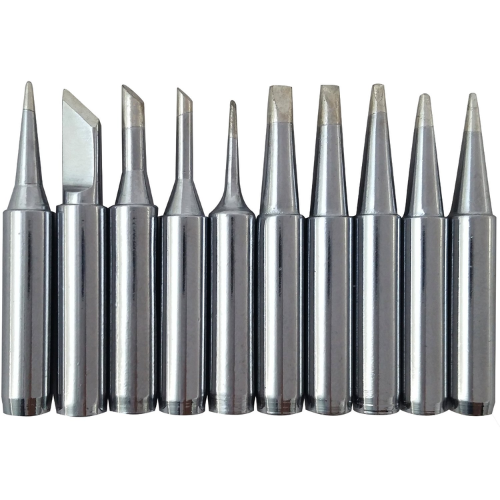
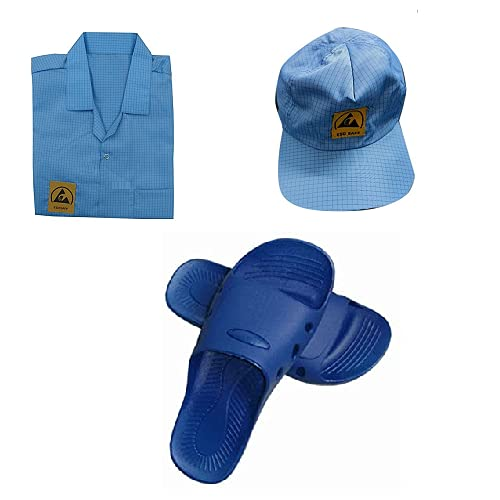
add t shirts and cusumables and removed existing products and add socila media links etc ..

diff --git a/src/index.css b/src/index.css
@@ -212,6 +212,62 @@ input, textarea, select {
   background: linear-gradient(135deg, rgba(188,159,77,0.15) 0%, transparent 60%);
 }
 
+/* Product-specific backgrounds */
+.page-header[data-product="packaging"] {
+  background-image: url('/images/backgrounds/packaging-bg.jpg');
+  background-size: cover;
+  background-position: center;
+  background-attachment: fixed;
+}
+
+.page-header[data-product="packaging"]::before {
+  background: linear-gradient(135deg, rgba(11,13,23,0.7) 0%, rgba(11,13,23,0.5) 60%);
+}
+
+.page-header[data-product="gloves"] {
+  background-image: url('/images/backgrounds/gloves-bg.jpg');
+  background-size: cover;
+  background-position: center;
+  background-attachment: fixed;
+}
+
+.page-header[data-product="gloves"]::before {
+  background: linear-gradient(135deg, rgba(11,13,23,0.7) 0%, rgba(11,13,23,0.5) 60%);
+}
+
+.page-header[data-product="safety"] {
+  background-image: url('/images/backgrounds/safety-bg.jpg');
+  background-size: cover;
+  background-position: center;
+  background-attachment: fixed;
+}
+
+.page-header[data-product="safety"]::before {
+  background: linear-gradient(135deg, rgba(11,13,23,0.7) 0%, rgba(11,13,23,0.5) 60%);
+}
+
+.page-header[data-product="esd"] {
+  background-image: url('/images/backgrounds/esd-bg.jpg');
+  background-size: cover;
+  background-position: center;
+  background-attachment: fixed;
+}
+
+.page-header[data-product="esd"]::before {
+  background: linear-gradient(135deg, rgba(11,13,23,0.7) 0%, rgba(11,13,23,0.5) 60%);
+}
+
+.page-header[data-product="pallets"] {
+  background-image: url('/images/backgrounds/pallets-bg.jpg');
+  background-size: cover;
+  background-position: center;
+  background-attachment: fixed;
+}
+
+.page-header[data-product="pallets"]::before {
+  background: linear-gradient(135deg, rgba(11,13,23,0.7) 0%, rgba(11,13,23,0.5) 60%);
+}
+
 .page-header .container {
   position: relative;
   z-index: 1;

diff --git a/src/pages/Products.jsx b/src/pages/Products.jsx
@@ -18,36 +18,16 @@ const packagingProducts = [
   { name: 'STEEL STRAP', desc: 'Industrial strapping', img: '/images/products/steel_strap.webp' },
   { name: 'PP & PET STRAP CLIP', desc: 'Strapping accessories', img: '/images/products/strap_clip.webp' },
   { name: 'POLYESTER COMPOSITE STRAP', desc: 'Flexible strapping', img: '/images/products/polyester_composite_strap.webp' },
-  { name: 'POLYESTER COMPOSITE STRAP BUCKLE', desc: 'Fastening hardware', img: '/images/products/composite_strap_buckle.webp' },
-  { name: 'PAPER DUNNAGE AIR BAG', desc: 'Cargo protection', img: '/images/products/paper_dunnage_bag.webp' },
-  { name: 'PP DUNNAGE AIR BAG', desc: 'Cargo protection', img: '/images/products/pp_dunnage_bag.webp' },
-  { name: 'CONTAINER RATCHET BELT', desc: 'Load securing', img: '/images/products/container_ratchet_belt.webp' },
-  { name: 'CARGO LASHING BELT', desc: 'Heavy load securing', img: '/images/products/cargo_lashing_belt.webp' },
-  { name: 'RATCHET LASHING BELT', desc: 'General securing', img: '/images/products/ratchet_lashing_belt.webp' },
-  { name: 'WOVEN STRAP', desc: 'High-load strap', img: '/images/products/woven_strap.webp' },
-  { name: 'POLYESTER LASHING STRAP', desc: 'Soft lashing', img: '/images/products/polyester_lashing_strap.webp' },
-  { name: 'HEAVY DUTY BUCKLE', desc: 'High-strength buckle', img: '/images/products/heavy_duty_buckle.webp' },
   { name: 'CONTAINER DESICCANT', desc: 'Moisture control', img: '/images/products/container_desiccant.webp' },
   { name: 'SILICA GEL', desc: 'Moisture control', img: '/images/products/silica_gel.webp' },
-  { name: 'PP STRAP TENSIONER SET', desc: 'Manual tool', img: '/images/products/pp_strap_tensioner.webp' },
-  { name: 'CORD STRAP TENSIONER', desc: 'Manual tool', img: '/images/products/cord_strap_tensioner.webp' },
-  { name: 'STEEL STRAP TENSIONER', desc: 'Industrial tool', img: '/images/products/steel_strap_tensioner.webp' },
-  { name: 'BATTERY OPERATED TOOL', desc: 'Power tool', img: '/images/products/battery_operated_tool.webp' },
-  { name: 'TAPE DISPENSER', desc: 'Handheld tool', img: '/images/products/tape_dispenser.webp' },
-  { name: 'STRETCH FILM DISPENSER', desc: 'Handheld tool', img: '/images/products/stretch_film_dispenser.webp' },
-  { name: 'PET STRAP DISPENSER', desc: 'Mobile cart', img: '/images/products/pet_strap_dispenser.webp' },
-  { name: 'AIR INFULATOR DUNNAGE AIR BAG', desc: 'Pneumatic tool', img: '/images/products/dunnage_inflator.webp' },
   { name: 'MASKING TAPE', desc: 'Painter\'s/Paper tape', img: '/images/products/masking_tape.jpg' },
-  { name: 'PLASTIC PALLET', desc: 'Material handling', img: '/images/products/plastic_pallet.jpg' },
-  { name: 'HEAT TREATED PALLET', desc: 'Logistical base', img: '/images/products/heat_treated_pallet.jpg' },
-  { name: 'WAREHOUSE STEEL PALLET', desc: 'Heavy-duty handling', img: '/images/products/steel_pallet.jpg' },
 ]
 
 export default function Products() {
   return (
     <main className="products-page">
       <SEO title="Products" url="/products" />
-      <div className="page-header">
+      <div className="page-header" data-product="packaging">
         <div className="container">
           <h1>Packaging</h1>
           <div className="breadcrumb">

diff --git a/src/components/Navbar.jsx b/src/components/Navbar.jsx
@@ -1,7 +1,7 @@
 import { useState, useEffect, useRef } from 'react'
 import { Link, NavLink } from 'react-router-dom'
 import { FiMenu, FiX, FiChevronDown, FiMail, FiPhone } from 'react-icons/fi'
-import { FaFacebook, FaLinkedin, FaTwitter, FaYoutube } from 'react-icons/fa'
+import { FaFacebook, FaLinkedin, FaTwitter, FaYoutube, FaInstagram } from 'react-icons/fa'
 import './Navbar.css'
 
 const products = [
@@ -9,9 +9,8 @@ const products = [
   { label: 'Industrial Gloves', path: '/industrial-gloves' },
   { label: 'Safety Disposables', path: '/safety-disposables' },
   { label: 'ESD Products', path: '/esd' },
-  { label: 'Cleanroom Cotton Swabs', path: '/cotton-swab' },
-  { label: 'Biomass Briquettes', path: '/biomass-briquettes' },
-  { label: 'Epoxy & ESD Flooring', path: '/flooring' },
+  { label: 'T-Shirts', path: '/t-shirts' },
+  { label: 'Consumables', path: '/consumables' },
   { label: 'Pallets', path: '/pallet' },
 ]
 
@@ -48,18 +47,18 @@ export default function Navbar() {
       <div className="topbar">
         <div className="container topbar__inner">
           <div className="topbar__contact">
-            <a href="mailto:[email redacted]" className="topbar__link">
-              <FiMail /> [email redacted]
+            <a href="mailto:[email redacted]" className="topbar__link">
+              <FiMail /> [email redacted]
             </a>
             <a href="tel:[phone redacted]" className="topbar__link">
               <FiPhone /> [phone redacted]
             </a>
           </div>
           <div className="topbar__social">
-            <a href="https://facebook.com" target="_blank" rel="noopener noreferrer" aria-label="Facebook"><FaFacebook /></a>
-            <a href="https://linkedin.com" target="_blank" rel="noopener noreferrer" aria-label="LinkedIn"><FaLinkedin /></a>
-            <a href="https://twitter.com" target="_blank" rel="noopener noreferrer" aria-label="Twitter"><FaTwitter /></a>
-            <a href="https://youtube.com" target="_blank" rel="noopener noreferrer" aria-label="YouTube"><FaYoutube /></a>
+            <a href="https://www.instagram.com/rudra_kshaenterprises?utm_source=qr&igsh=MTFnOGp6MTVib2ZubQ==" target="_blank" rel="noopener noreferrer" aria-label="Instagram"><FaInstagram /></a>
+            <a href="https://x.com/Rudraksha91" target="_blank" rel="noopener noreferrer" aria-label="X"><FaTwitter /></a>
+            <a href="https://www.linkedin.com/in/rudraksha-enterprises-33a395418?utm_source=share_via&utm_content=profile&utm_medium=member_android" target="_blank" rel="noopener noreferrer" aria-label="LinkedIn"><FaLinkedin /></a>
+            <a href="https://youtube.com/@rudrakshaenterprises-d4y?si=-zmxFlS9ddrarcbQ" target="_blank" rel="noopener noreferrer" aria-label="YouTube"><FaYoutube /></a>
           </div>
         </div>
       </div>

diff --git a/src/components/Footer.jsx b/src/components/Footer.jsx
@@ -1,5 +1,5 @@
 import { Link } from 'react-router-dom'
-import { FaFacebook, FaLinkedin, FaTwitter, FaYoutube, FaWhatsapp } from 'react-icons/fa'
+import { FaFacebook, FaLinkedin, FaTwitter, FaYoutube, FaWhatsapp, FaInstagram } from 'react-icons/fa'
 import { FiMail, FiPhone, FiMapPin } from 'react-icons/fi'
 import './Footer.css'
 
@@ -18,13 +18,13 @@ export default function Footer() {
               />
             </Link>
             <p className="footer__about">
-              Rudraksha Enterprises has been surpassing its clients expectations since its inception. Undue attention to quality control and management has made us a leading manufacturer, supplier and trader of Disposable Safety Items and Packaging Materials. <em>Reliable. Scalable. Ready.</em>
+              Rudraksha Enterprises is a leading manufacturer, supplier and trader of Disposable Safety Items and Packaging Materials. Undue attention to quality control and management has made us trusted by businesses across India and internationally. <em>Reliable. Scalable. Ready.</em>
             </p>
             <div className="footer__social">
-              <a href="https://facebook.com" target="_blank" rel="noopener noreferrer" aria-label="Facebook"><FaFacebook /></a>
-              <a href="https://linkedin.com" target="_blank" rel="noopener noreferrer" aria-label="LinkedIn"><FaLinkedin /></a>
-              <a href="https://twitter.com" target="_blank" rel="noopener noreferrer" aria-label="Twitter"><FaTwitter /></a>
-              <a href="https://youtube.com" target="_blank" rel="noopener noreferrer" aria-label="YouTube"><FaYoutube /></a>
+              <a href="https://www.instagram.com/rudra_kshaenterprises?utm_source=qr&igsh=MTFnOGp6MTVib2ZubQ==" target="_blank" rel="noopener noreferrer" aria-label="Instagram"><FaInstagram /></a>
+              <a href="https://x.com/Rudraksha91" target="_blank" rel="noopener noreferrer" aria-label="X"><FaTwitter /></a>
+              <a href="https://www.linkedin.com/in/rudraksha-enterprises-33a395418?utm_source=share_via&utm_content=profile&utm_medium=member_android" target="_blank" rel="noopener noreferrer" aria-label="LinkedIn"><FaLinkedin /></a>
+              <a href="https://youtube.com/@rudrakshaenterprises-d4y?si=-zmxFlS9ddrarcbQ" target="_blank" rel="noopener noreferrer" aria-label="YouTube"><FaYoutube /></a>
               <a href="https://wa.me/[phone redacted]" target="_blank" rel="noopener noreferrer" aria-label="WhatsApp"><FaWhatsapp /></a>
             </div>
           </div>
@@ -51,7 +51,7 @@ export default function Footer() {
             <ul className="footer__contact-list">
               <li>
                 <FiMail />
-                <a href="mailto:[email redacted]">[email redacted]</a>
+                <a href="mailto:[email redacted]">[email redacted]</a>
               </li>
               <li>
                 <FiPhone />
@@ -70,11 +70,11 @@ export default function Footer() {
             <div className="footer__info-card">
               <div className="footer__info-item">
                 <span className="footer__info-label">Nature of Business</span>
-                <span className="footer__info-value">Exporter and Manufacturer</span>
+                <span className="footer__info-value">Supplier and Manufacturer</span>
               </div>
               <div className="footer__info-item">
                 <span className="footer__info-label">Legal Status</span>
-                <span className="footer__info-value">Partnership Firm</span>
+                <span className="footer__info-value">Proprietor</span>
               </div>
               <div className="footer__info-item">
                 <span className="footer__info-label">Tagline</span>

diff --git a/src/pages/Home.jsx b/src/pages/Home.jsx
@@ -98,7 +98,7 @@ const whyUs = [
   {
     icon: <FaBalanceScale />,
     title: 'Dedicated Customer Support',
-    desc: 'Our customer support team is here to assist you at every step. Whether you have questions about our products or need assistance with an order.',
+    desc: 'Our customer support team is here to assist you at every step. GST Number: 36EKBPR5926M1ZJ',
   },
 ]
 
@@ -292,14 +292,14 @@ export default function Home() {
             <div className="trust-card__icon"><FaBoxOpen /></div>
             <div>
               <h3>Nature of Business</h3>
-              <p>Exporter and Manufacturer</p>
+              <p>Supplier and Manufacturer</p>
             </div>
           </div>
           <div className="trust-card">
             <div className="trust-card__icon"><FaBalanceScale /></div>
             <div>
               <h3>Legal Status of Firm</h3>
-              <p>Partnership Firm</p>
+              <p>Proprietor</p>
             </div>
           </div>
         </div>
@@ -313,7 +313,7 @@ export default function Home() {
               <span className="section-label">ABOUT COMPANY</span>
               <h2 className="section-title">RUDRAKSHA ENTERPRISES</h2>
               <p className="section-subtitle">
-                Rudraksha Enterprises has been surpassing its clients expectations since its inception in 2018. Undue attention to quality control and management has made us leading manufacturer, supplier and trader of Disposable Safety Items and Packaging Materials.
+                Rudraksha Enterprises is a leading manufacturer, supplier and trader of Disposable Safety Items and Packaging Materials. Undue attention to quality control and management has made us trusted by businesses across India and internationally.
               </p>
               <br />
               <p style={{color: 'var(--gray-500)', fontSize: '15px', lineHeight: '1.7'}}>
@@ -326,10 +326,6 @@ export default function Home() {
             </div>
             <div className="home-about__img">
               <img src="/images/about_company.png" alt="Rudraksha Enterprises - About Us" />
-              <div className="home-about__badge">
-                <span className="home-about__badge-num">6+</span>
-                <span>Years of Excellence</span>
-              </div>
             </div>
           </div>
         </div>

diff --git a/src/App.jsx b/src/App.jsx
@@ -10,9 +10,8 @@ import Products from './pages/Products'
 import IndustrialGloves from './pages/IndustrialGloves'
 import SafetyDisposables from './pages/SafetyDisposables'
 import ESDProducts from './pages/ESDProducts'
-import CottonSwabs from './pages/CottonSwabs'
-import BiomassBriquettes from './pages/BiomassBriquettes'
-import IndustrialFlooring from './pages/IndustrialFlooring'
+import TShirts from './pages/TShirts'
+import Consumables from './pages/Consumables'
 import Pallets from './pages/Pallets'
 import Contact from './pages/Contact'
 import Terms from './pages/Terms'
@@ -36,9 +35,8 @@ function App() {
         <Route path="/industrial-gloves" element={<IndustrialGloves />} />
         <Route path="/safety-disposables" element={<SafetyDisposables />} />
         <Route path="/esd" element={<ESDProducts />} />
-        <Route path="/cotton-swab" element={<CottonSwabs />} />
-        <Route path="/biomass-briquettes" element={<BiomassBriquettes />} />
-        <Route path="/flooring" element={<IndustrialFlooring />} />
+        <Route path="/t-shirts" element={<TShirts />} />
+        <Route path="/consumables" element={<Consumables />} />
         <Route path="/pallet" element={<Pallets />} />
 
         <Route path="/contact" element={<Contact />} />

diff --git a/src/pages/About.jsx b/src/pages/About.jsx
@@ -41,17 +41,12 @@ export default function About() {
           <div className="grid-2">
             <div className="about-img-wrap">
               <img src="/images/about_company.png" alt="About Rudraksha Enterprises" className="about-img" />
-              <div className="about-img-badge">
-                <FaMedal className="about-badge-icon" />
-                <strong>Since 2018</strong>
-                <span>Industry Leader</span>
-              </div>
             </div>
             <div className="about-text">
               <span className="section-label">ABOUT COMPANY</span>
               <h2 className="section-title">RUDRAKSHA ENTERPRISES</h2>
               <p style={{color: 'var(--gray-500)', lineHeight: '1.8', marginBottom: '16px'}}>
-                Rudraksha Enterprises has been surpassing its clients expectations since its inception in 2018. Undue attention to quality control and management has made us leading manufacturer, supplier and trader of Disposable Safety Items and Packaging Materials.
+                Rudraksha Enterprises is a leading manufacturer, supplier and trader of Disposable Safety Items and Packaging Materials. Undue attention to quality control and management has made us trusted by businesses across India and internationally.
               </p>
                 We serve a diverse range of industries including manufacturing, healthcare, pharmaceuticals, electronics, and clean rooms. Our products conform to international quality standards and are trusted by businesses across India and internationally.
 

diff --git a/src/pages/SafetyDisposables.jsx b/src/pages/SafetyDisposables.jsx
@@ -4,7 +4,6 @@ import SEO from '../components/SEO'
 
 const safetyProducts = [
   { name: 'APRONS', desc: 'Industrial protective aprons', img: '/images/products/safety/apron.webp' },
-  { name: 'VELCRO AT THE WAIST AND CHEST STRAPS', desc: 'Secure fit industrial safety wear', img: '/images/products/safety/velcro_waist.png' },
   { name: 'VELCRO AT THE WAIST LEVEL', desc: 'Adjustable safety gear', img: '/images/products/safety/velcro_waist_2.webp' },
   { name: 'VELCRO AT FRONT OPENING', desc: 'Quick-access industrial wear', img: '/images/products/safety/velcro_front.webp' },
   { name: 'MACHINE CORDED AROUND THE NECK STYLE', desc: 'Secure neck-style protective wear', img: '/images/products/safety/corded_neck.png' },
@@ -13,9 +12,6 @@ const safetyProducts = [
   { name: 'SAFETY GOGGLES', desc: 'Eye protection from dust and chemicals', img: '/images/products/safety/goggles.webp' },
   { name: 'SAFETY SHIELDS', desc: 'Full face protection shields', img: '/images/products/safety/shields.webp' },
   { name: 'BODY HARNESS', desc: 'Fall protection for height work', img: '/images/products/safety/harness.webp' },
-  { name: 'HOOKS', desc: 'Industrial safety connectors and hooks', img: '/images/products/safety/hooks.webp' },
-  { name: 'CONNECTORS', desc: 'Load-rated industrial connectors', img: '/images/products/safety/connectors.webp' },
-  { name: 'STYLISH & DURABLE INDUSTRIAL SHOES', desc: 'Premium safety footwear', img: '/images/products/safety/shoes_industrial.png' },
   { name: 'STYLISH & EASY WEAR SAFETY SHOES', desc: 'Comfort-focused safety shoes', img: '/images/products/safety/shoes_easywear.png' },
   { name: 'PREMIUM & CLASSIC SAFETY SHOES', desc: 'All-day durability footwear', img: '/images/products/safety/shoes_premium.webp' },
   { name: 'GUM BOOT', desc: 'Waterproof protective boots', img: '/images/products/safety/gum_boot.webp' },
@@ -27,7 +23,7 @@ export default function SafetyDisposables() {
   return (
     <main className="products-page">
       <SEO title="Safety Disposables" url="/safety-disposables" />
-      <div className="page-header">
+      <div className="page-header" data-product="safety">
         <div className="container">
           <h1>Safety Disposables</h1>
           <div className="breadcrumb">

diff --git a/src/pages/Pallets.jsx b/src/pages/Pallets.jsx
@@ -4,8 +4,7 @@ import SEO from '../components/SEO'
 
 const palletProducts = [
   { name: 'Heat Treated Pallet', desc: 'ISPM-15 compliant wooden pallets for export', img: '/images/products/other/heat_treated_pallet.webp' },
-  { name: 'Plastic Pallet', desc: 'Durable HDPE pallets for hygienic storage', img: '/images/products/other/plastic_pallet.png' },
-  { name: 'Export Steel Pallet', desc: 'Heavy-duty steel pallets for international transit', img: '/images/products/other/export_steel_pallet.webp' },
+  { name: 'Plastic Pallet', desc: 'Durable HDPE pallets for hygienic storage', img: '/images/products/plastic_pallet.jpg' },
   { name: 'Warehouse Steel Pallet', desc: 'Galvanized industrial storage basis', img: '/images/products/other/warehouse_steel_pallet.webp' },
 ]
 
@@ -13,7 +12,7 @@ export default function Pallets() {
   return (
     <main className="products-page">
       <SEO title="Pallets" url="/pallet" />
-      <div className="page-header">
+      <div className="page-header" data-product="pallets">
         <div className="container">
           <h1>Industrial Pallets</h1>
           <div className="breadcrumb">

diff --git a/src/pages/Contact.jsx b/src/pages/Contact.jsx
@@ -15,8 +15,8 @@ const contactInfo = [
   {
     icon: <FiMail />,
     title: 'Email',
-    lines: ['[email redacted]'],
-    href: 'mailto:[email redacted]',
+    lines: ['[email redacted]'],
+    href: 'mailto:[email redacted]',
   },
   {
     icon: <FiMapPin />,

diff --git a/src/pages/ESDProducts.jsx b/src/pages/ESDProducts.jsx
@@ -13,14 +13,14 @@ const esdProducts = [
   { name: 'SOLDERING TIPS', desc: 'High-quality industrial soldering components', img: '/images/products/esd/solder_tips.png' },
   { name: 'ESD APRON, SLIPPER AND CAP', desc: 'Complete anti-static apparel', img: '/images/products/esd/apparel.png' },
   { name: 'ESD Bags', desc: 'Shielding bags for electronics', img: '/images/products/esd/bags.png' },
-  { name: 'ESD KAPTON, CAUTION, GRID TAPE', desc: 'Specialized ESD marking tapes', img: '/images/products/esd/tapes.png' },
+  { name: 'ESD KAPTON, CAUTION, GRID TAPE', desc: 'Specialized ESD marking tapes', img: '/images/products/esd/tap.png' },
 ]
 
 export default function ESDProducts() {
   return (
     <main className="products-page">
       <SEO title="ESD Products" url="/esd" />
-      <div className="page-header">
+      <div className="page-header" data-product="esd">
         <div className="container">
           <h1>ESD Products</h1>
           <div className="breadcrumb">

diff --git a/src/pages/Privacy.jsx b/src/pages/Privacy.jsx
@@ -54,8 +54,8 @@ export default function Privacy() {
 
             <h2>9. Contact Us</h2>
             <p>If you have questions about this Privacy Policy, please contact us at:<br />
-            <a href="mailto:[email redacted]">[email redacted]</a><br />
-            [phone redacted]</p>
+            <a href="mailto:[email redacted]">[email redacted]</a><br />
+            [phone redacted]</p>
           </div>
         </div>
       </section>